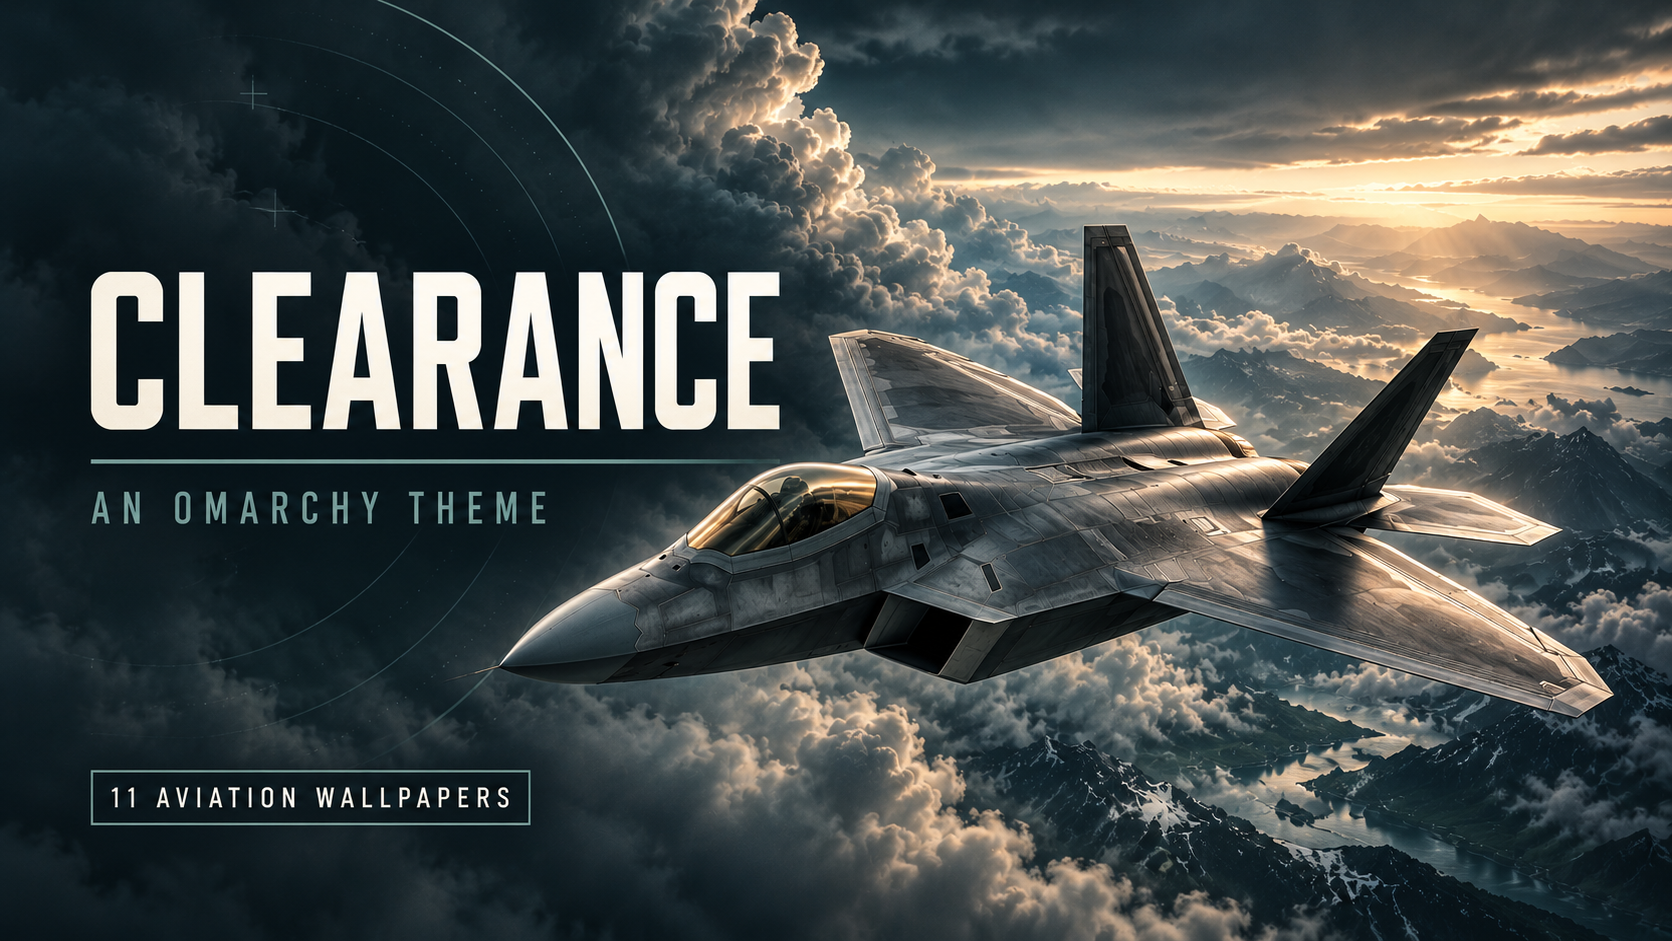
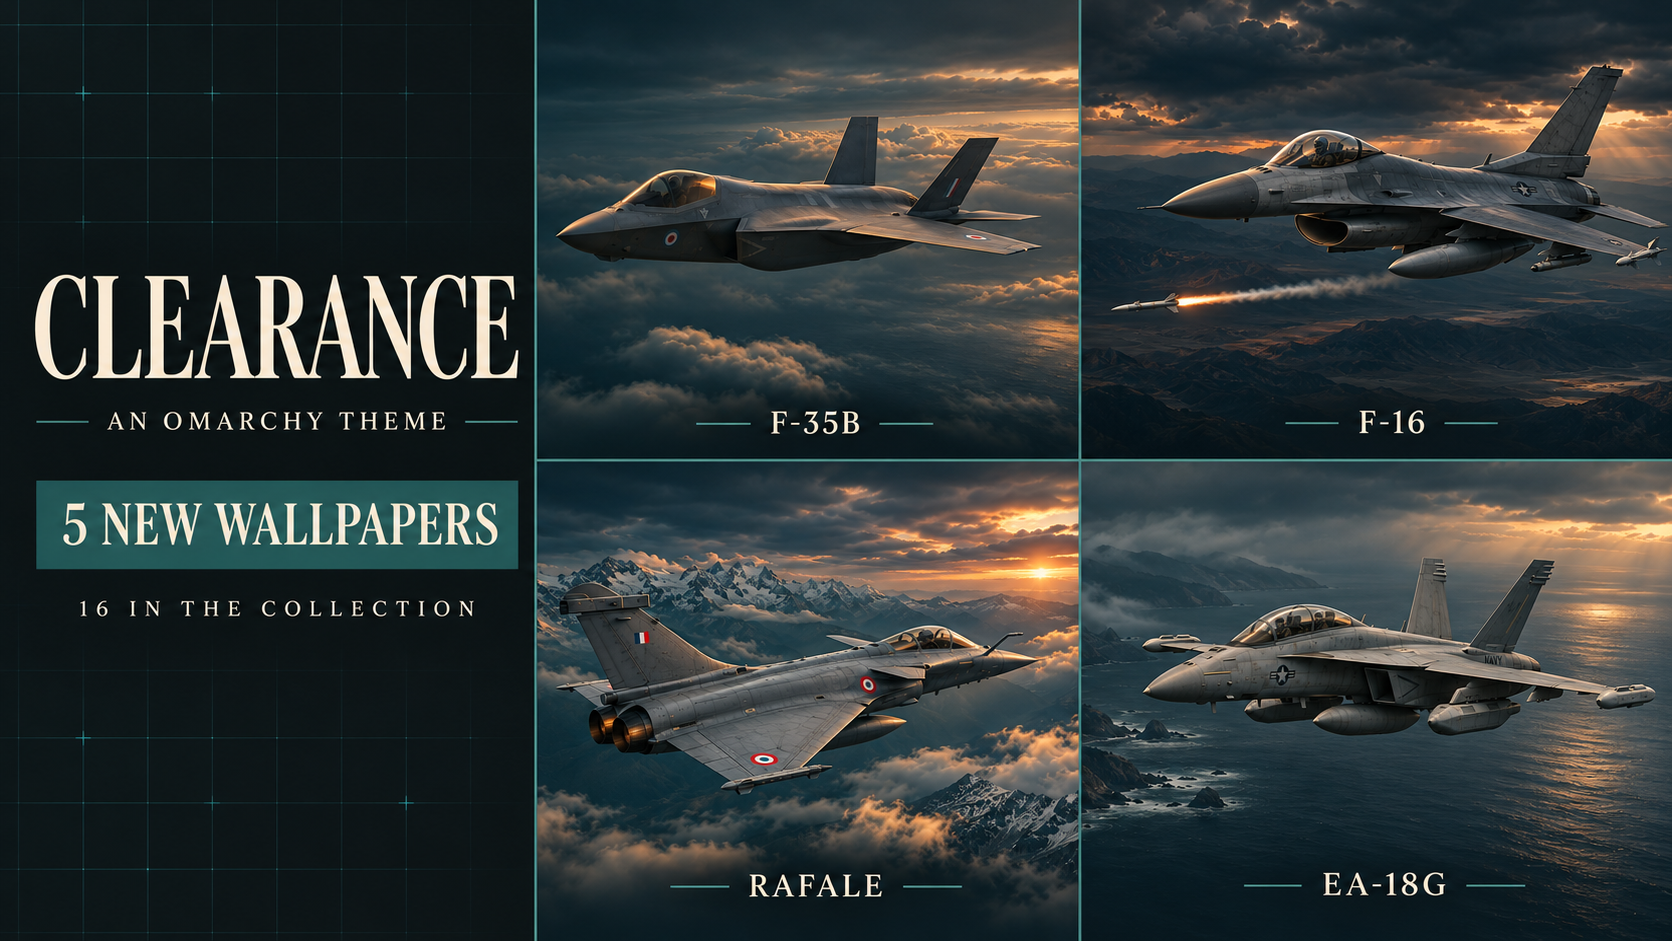
Add five aviation wallpapers and refresh Clearance cover

diff --git a/README.md b/README.md
@@ -1,8 +1,8 @@
 # Clearance
 
-A dark Omarchy theme inspired by modern aviation: graphite surfaces, warm ivory text and muted teal accents, with eleven aviation wallpapers.
+A dark Omarchy theme inspired by modern aviation: graphite surfaces, warm ivory text and muted teal accents, with sixteen aviation wallpapers.
 
-![Clearance — an Omarchy theme with eleven aviation wallpapers](preview.png)
+![Clearance — an Omarchy theme with sixteen aviation wallpapers](preview.png)
 
 *The cover is promotional artwork, not a screenshot of the desktop interface.*
 
@@ -33,13 +33,23 @@ Clearance pairs a restrained interface with aircraft, cloudscapes, radar-inspire
 | [Lancer](backgrounds/10-lancer-b1b-3440x1440.webp) | B-1B-inspired aircraft |
 | [Poseidon](backgrounds/11-poseidon-3440x1440.webp) | P-8-inspired aircraft releasing sonobuoys |
 
-All eleven backgrounds are **3440 × 1440 WebP exports**, locally upscaled from **1935 × 812 AI-generated originals**. They are not native 4K or native ultrawide-detail images. Export used Lanczos resampling with a small centred vertical crop (about 0.25%) and mild sharpening, except for the radar artwork. Separate 16:9 editions are not included. A fill/crop display mode on other aspect ratios may trim aircraft or scenery.
+**2 November 2026: five new wallpapers**, bringing the collection to sixteen.
+
+| New wallpaper | Scene and service markings |
+|---|---|
+| [Lightning](backgrounds/12-lightning-f35b-3440x1440.webp) | British F-35B above the Atlantic at dawn |
+| [Falcon](backgrounds/13-falcon-f16-3440x1440.webp) | USAF F-16 launching a missile above a mountain landscape |
+| [Eagle II](backgrounds/14-eagle-f15ex-3440x1440.webp) | USAF F-15EX above desert canyons at dusk |
+| [Rafale](backgrounds/15-rafale-3440x1440.webp) | French Rafale above the Alps at sunset |
+| [Growler](backgrounds/16-growler-ea18g-3440x1440.webp) | US Navy EA-18G above the Pacific coast |
+
+All sixteen backgrounds are **3440 × 1440 WebP exports**, locally upscaled from AI-generated originals approximately **1920–1940 × 810–825** pixels. They are not native 4K or native ultrawide-detail images. Export uses Lanczos resampling with a small centred crop to fit the target aspect ratio; the original collection also used mild sharpening except for radar artwork. Separate 16:9 editions are not included. A fill/crop display mode on other aspect ratios may trim aircraft or scenery.
 
 Aircraft shapes, cockpit instruments, markings and release geometry are artistic interpretations. They are not technical reference imagery, photographs or operational guidance.
 
 ## Installation
 
-Once this repository is public, install by repository URL:
+Install by repository URL:
 
 ```sh
 omarchy theme install https://github.com/shaggyrs6-netizen/omarchy-clearance-theme
@@ -55,6 +65,6 @@ The 41 selected contrast checks pass their stated targets on opaque surfaces; ma
 
 ## Credits and licence
 
-Theme prepared by Lee Shand / Wired Differently with AI assistance. The eleven wallpapers are AI-generated artwork selected for this collection. The cover is supplied promotional artwork. No aircraft manufacturer, operator or the Omarchy project endorses this theme.
+Theme prepared by Lee Shand / Wired Differently with AI assistance. The sixteen wallpapers are AI-generated artwork selected for this collection. The cover is AI-generated promotional artwork showing four of the five new additions. No aircraft manufacturer, operator or the Omarchy project endorses this theme.
 
 The existing [MIT licence](LICENSE) is retained for the supplied theme files, artwork and documentation, to the extent applicable rights exist. It does not promise exclusive copyright in AI-generated imagery or grant rights in third-party trademarks. Aircraft names identify the artistic subjects.

diff --git a/CHANGELOG.md b/CHANGELOG.md
@@ -1,0 +1,13 @@
+# Changelog
+
+## 2026-11-02 — Five new aviation wallpapers
+
+- Added British F-35B Lightning II, USAF F-16 Fighting Falcon, USAF F-15EX Eagle II, French Dassault Rafale and US Navy EA-18G Growler artwork.
+- Collection expanded from 11 to 16 ultrawide 3440 × 1440 WebP wallpapers.
+- New promotional thumbnail highlights four additions and the new collection size.
+- Updated artwork descriptions and generation/upscaling disclosure.
+- Existing colour palette, original eleven backgrounds and MIT licence unchanged.
+
+## 2026-10-28 — Initial public collection
+
+- Clearance palette and eleven aviation wallpapers.
